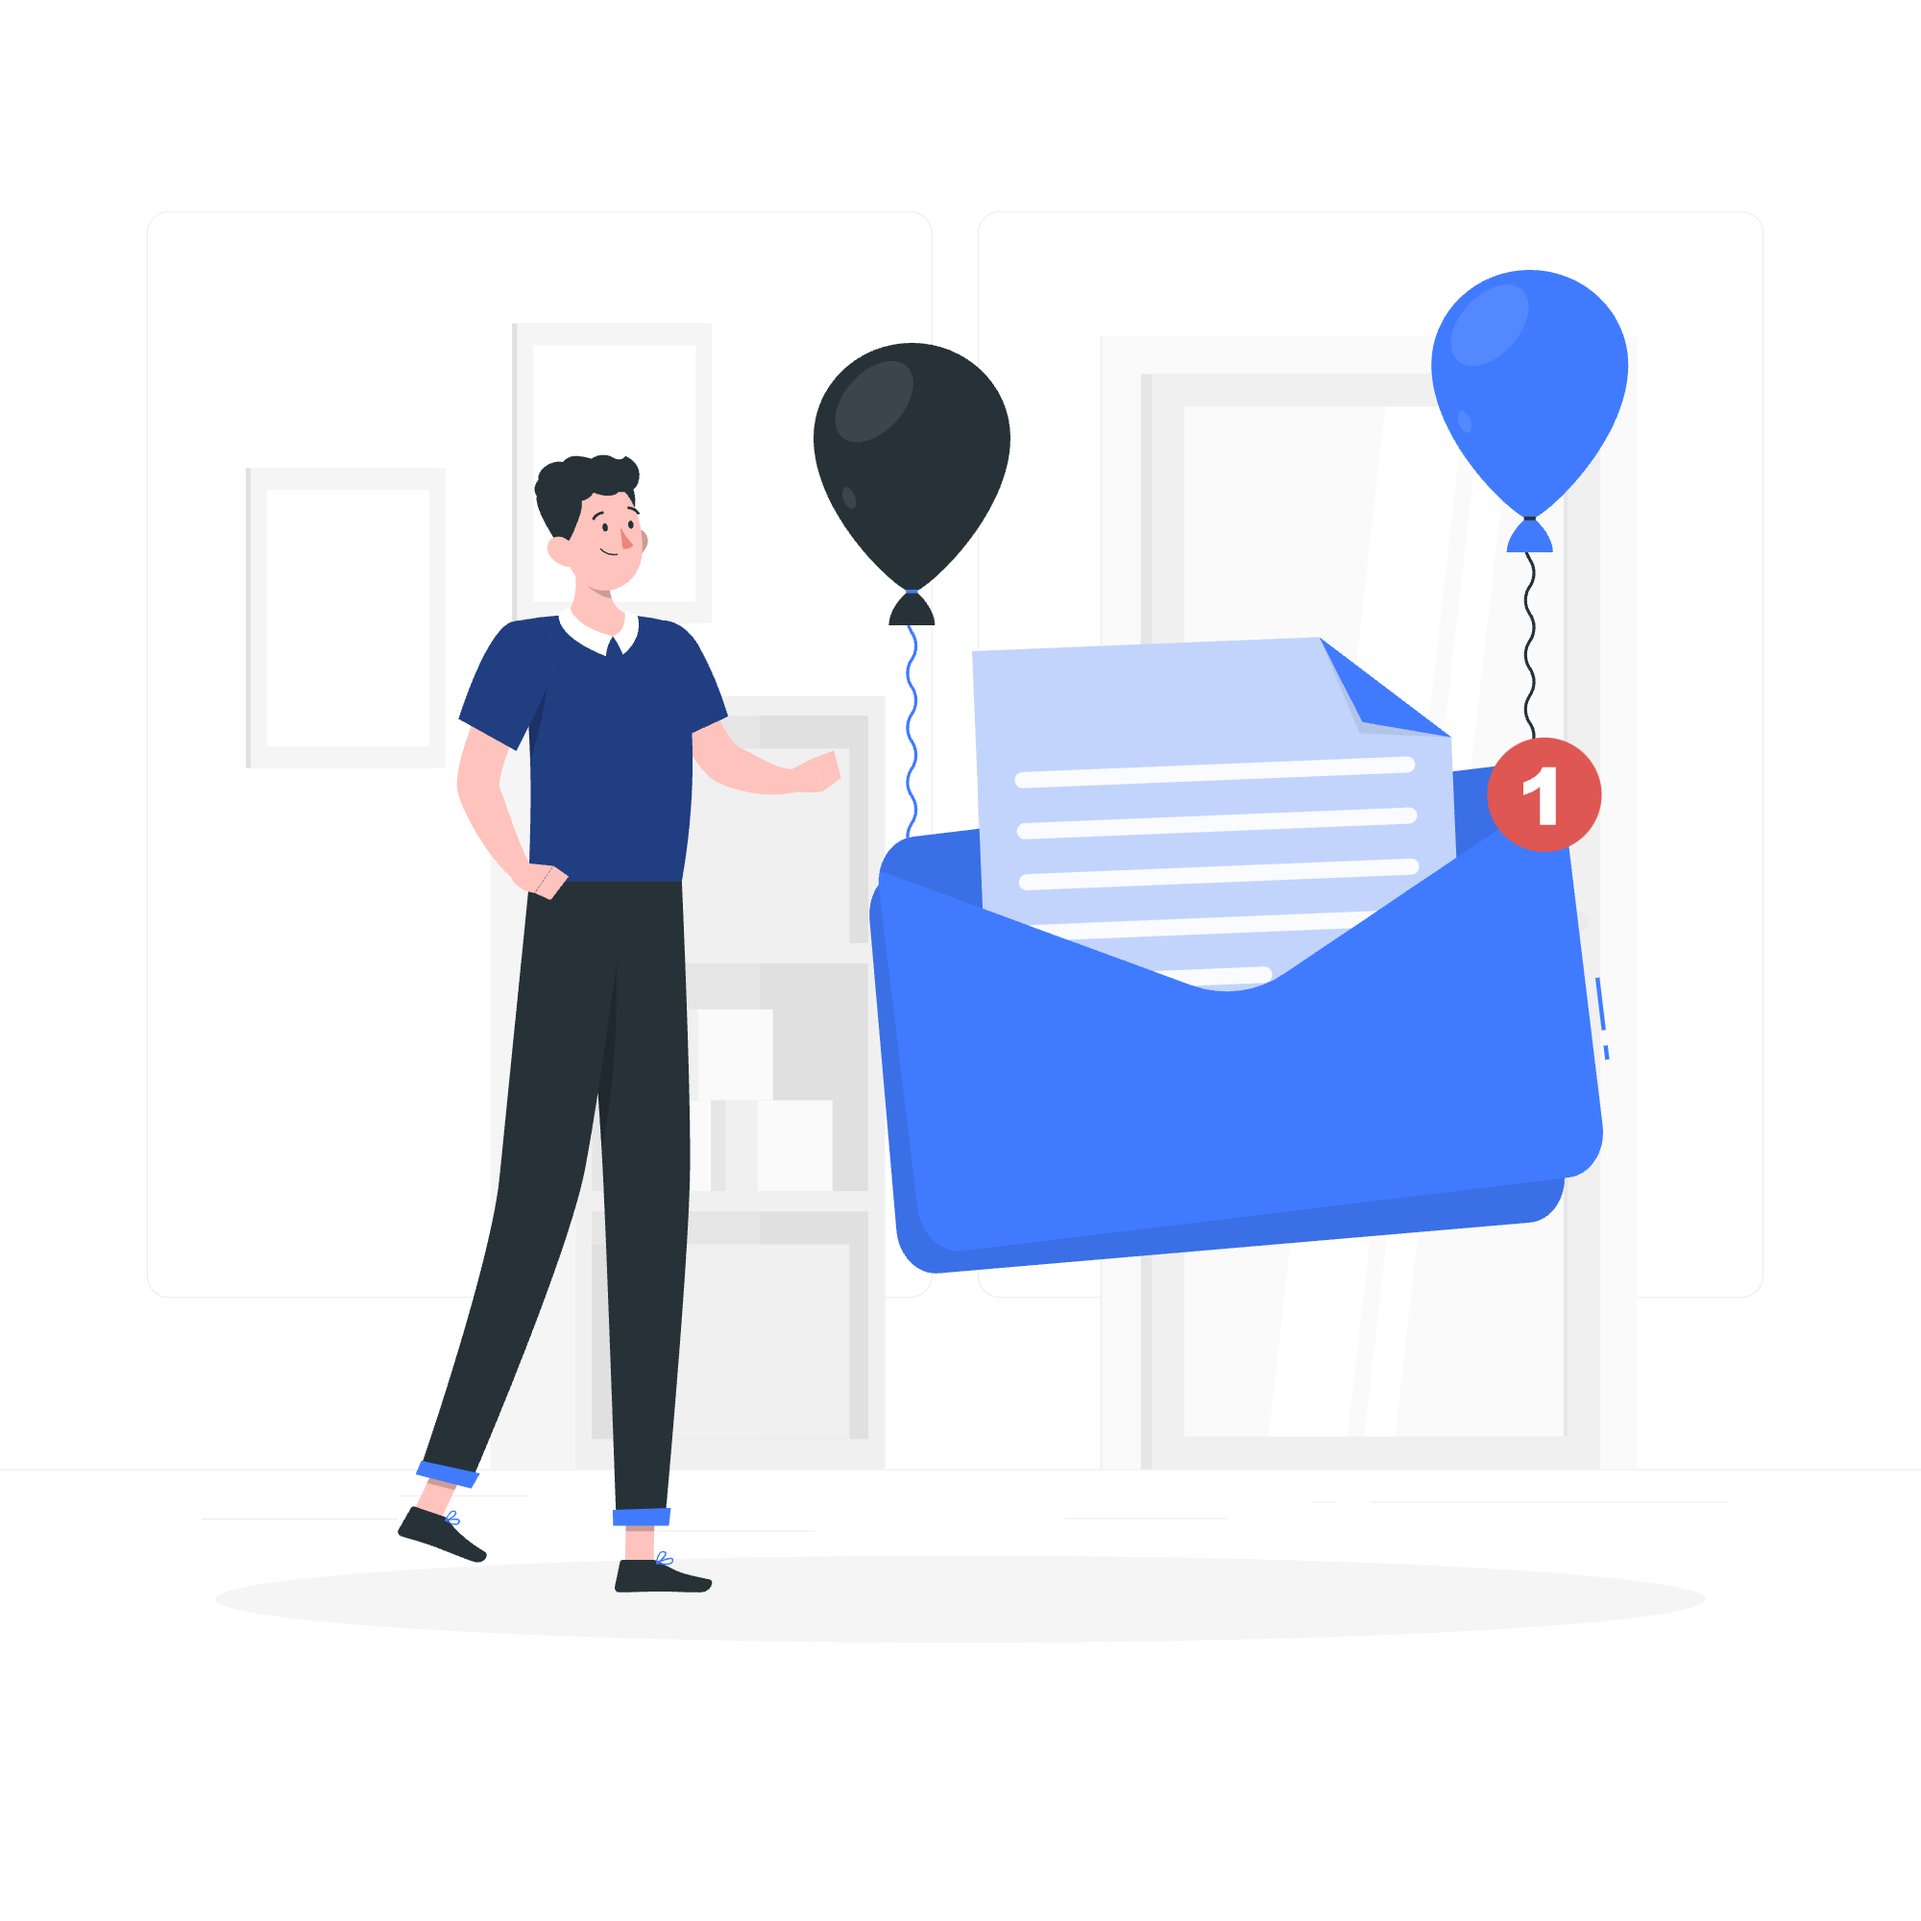
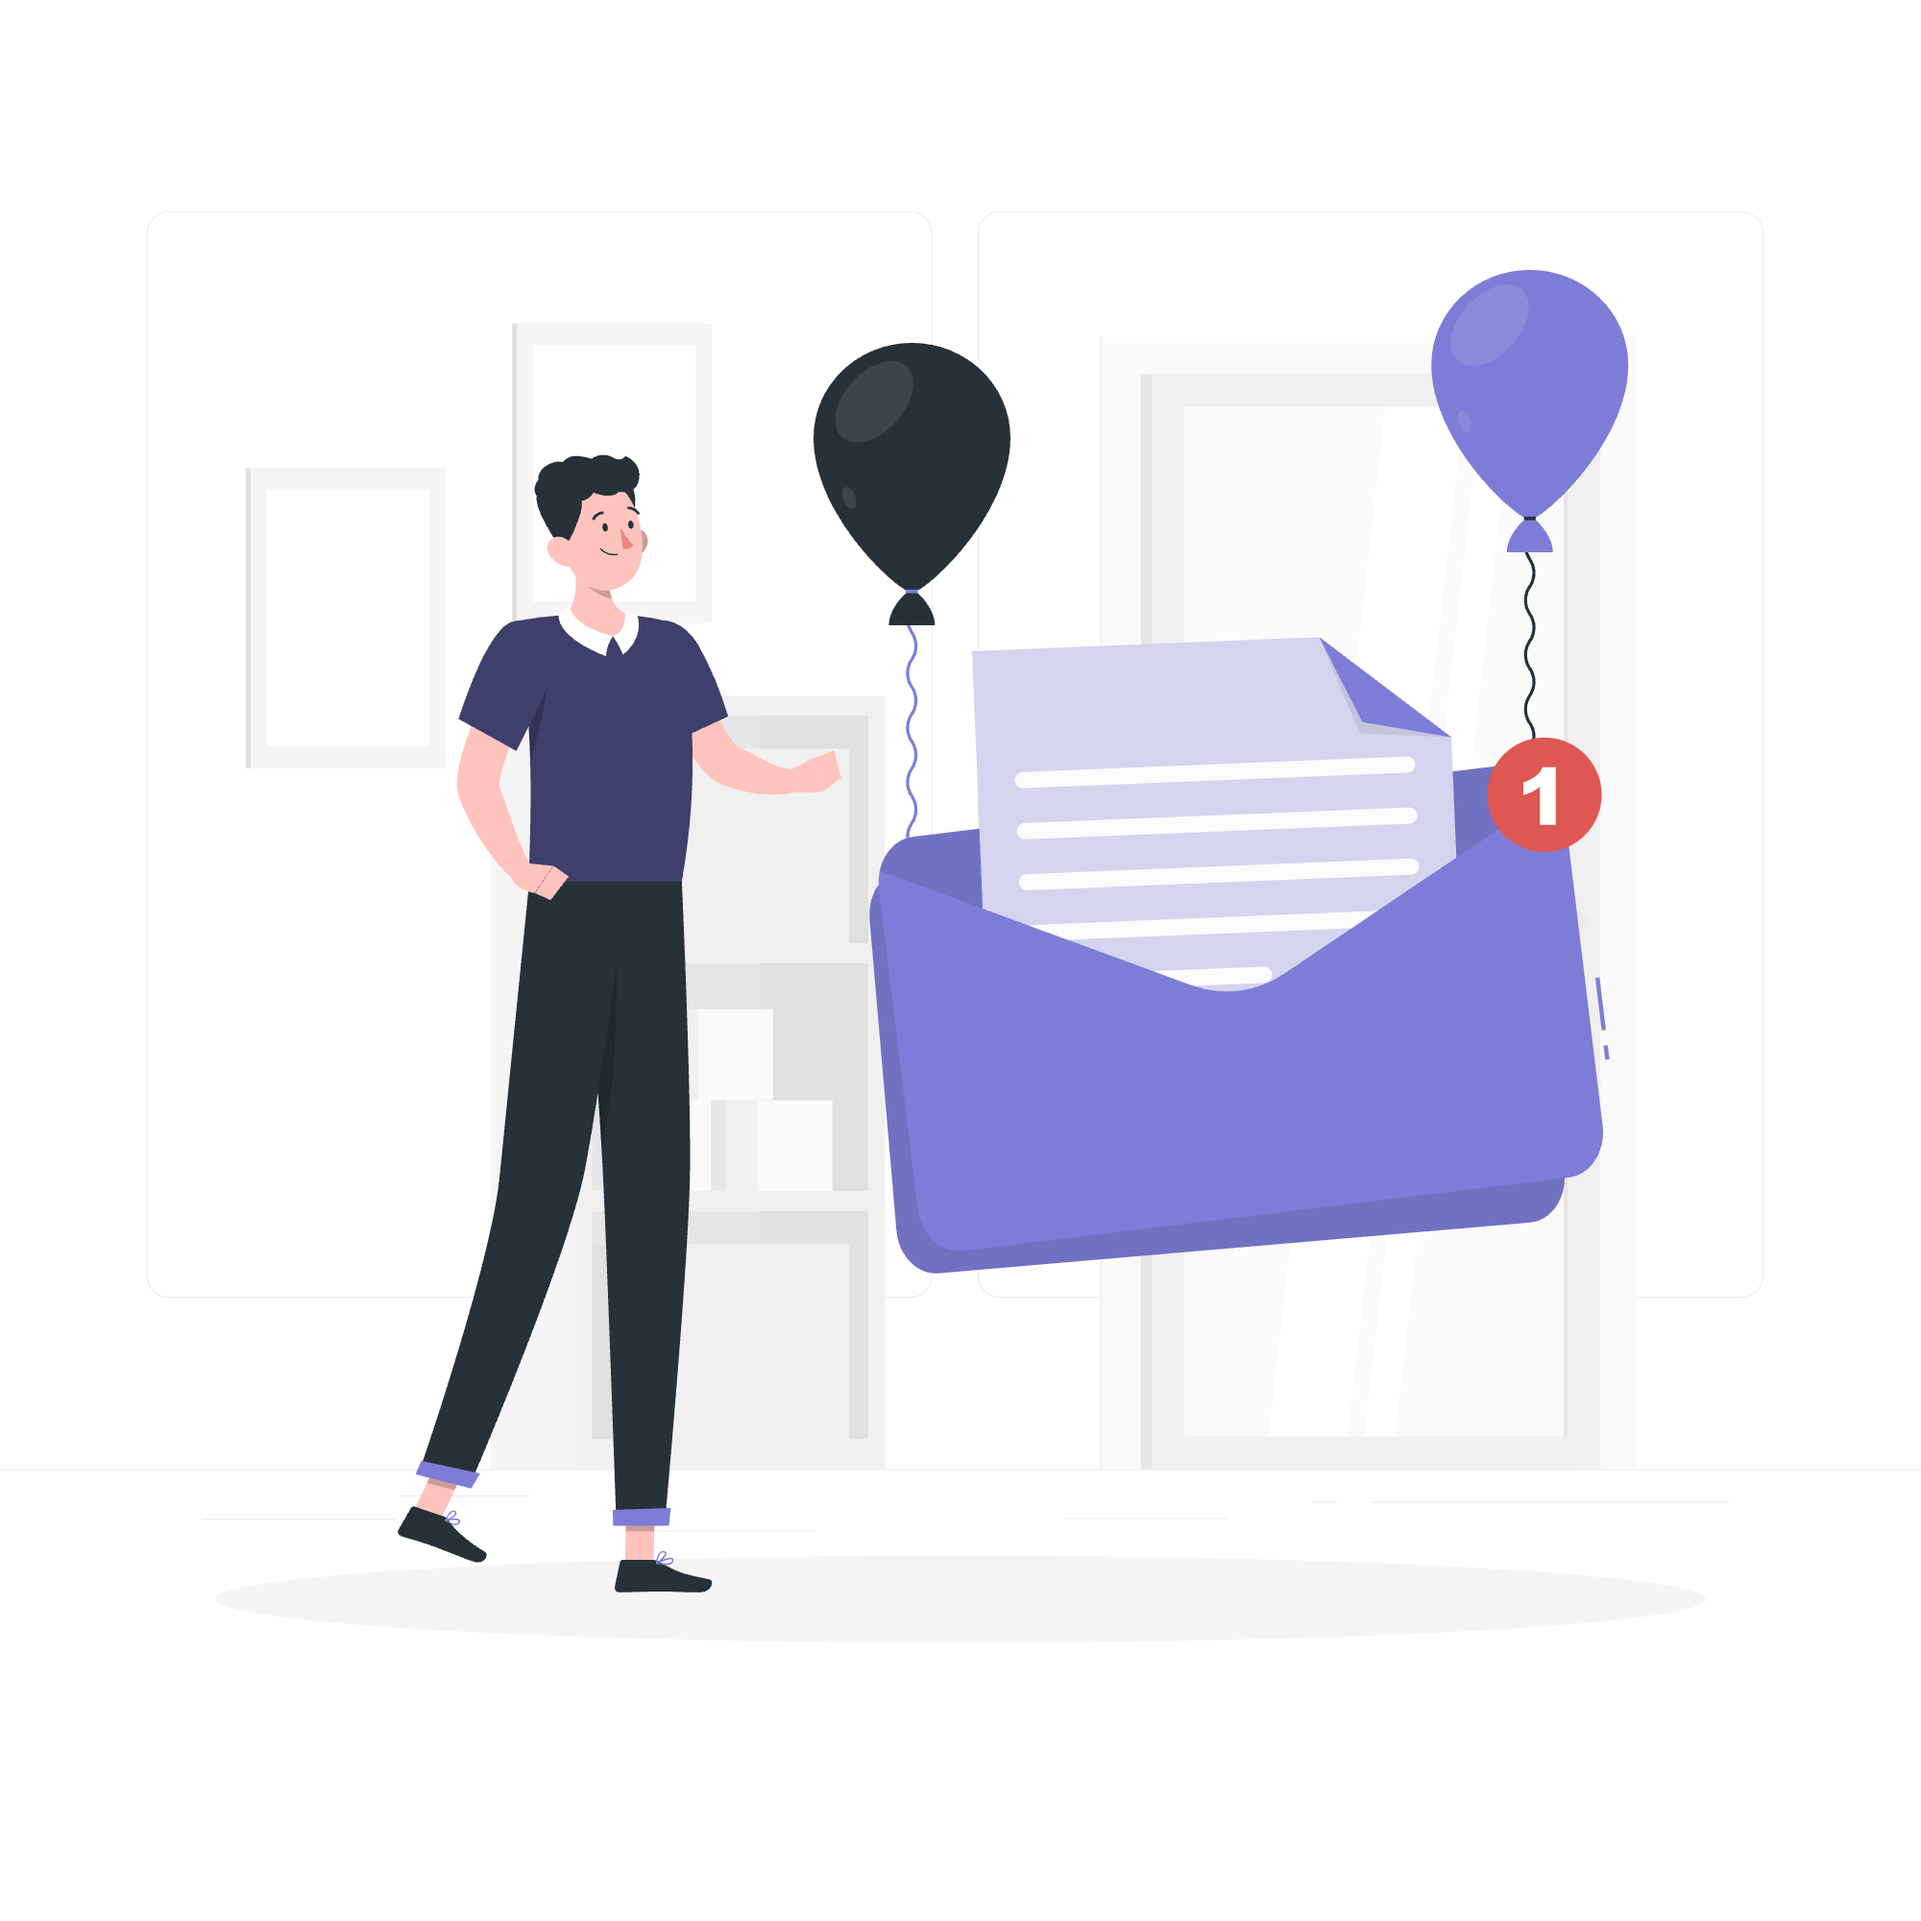
colors

diff --git a/index.html b/index.html
@@ -11,11 +11,11 @@
 
     <div class="header">
         <div class="brand">
-            <img id="logo" src="/My Mails-Assets/email (1).png" alt="an open envelop with a letter">
+            <img id="logo" src="/My Mails-Assets/open-message.png" alt="an open envelop with a letter">
             <h6 id="brand_name">My Mails</h6>
         </div>
         <input id="search" type="text" placeholder="Search in mails">
-        <img id="settings" src="/My Mails-Assets/settings.png" alt="star wheel icon">
+        <img id="settings" src="/My Mails-Assets/settings copie.png" alt="star wheel icon">
     </div>
 
     <div class="container">

diff --git a/homeStyle.css b/homeStyle.css
@@ -2,7 +2,7 @@
 body {
     padding: 0;
     margin: 0;
-    background-color: #edf2fb;
+    background-color: #e8e1df;
 }
 
 /* CONTAINER */
@@ -29,6 +29,7 @@ body {
 h1, p {
     font-family: 'Open Sans', sans-serif;
     text-align: center;
+    color: #3b4969;
 }
 
 p {
@@ -41,11 +42,14 @@ button {
     height: 50px;
     font-size: larger;
     border-radius: 50px;
+    border: none;
+    background-color: #f36b51;
+    color: #3b4969;
 }
 
 button:hover {
-    background-color: #caf0f8;
-    box-shadow: 1px 1px 1px 1px #edf2fb;
+    background-color: #fdb591;
+    box-shadow: 1px 1px 1px 1px #f8b192;
 }
 
 /* Right side */

diff --git a/style.css b/style.css
@@ -3,13 +3,13 @@
 body {
     margin: 0;
     padding: 0;
-    background-color: #edf2fb;
+    background-color: #f2f2fb;
 }
 
 /* Nav bar */
 
 .header {
-    background-color: #FFFFFF;
+    background-color: #eee8e7;
     height: 50px;
     display: flex;
     flex-direction: row;
@@ -32,7 +32,7 @@ body {
 }
 
 #brand_name {
-    color: #90a4ae;
+    color: #3b4969;
 }
 
 #settings {
@@ -113,6 +113,7 @@ h6, p {
     font-family: 'Open Sans', sans-serif;
     font-size: 14px;
     margin: 5px;
+    color: #3b4969;
 }
 
 h6 {
